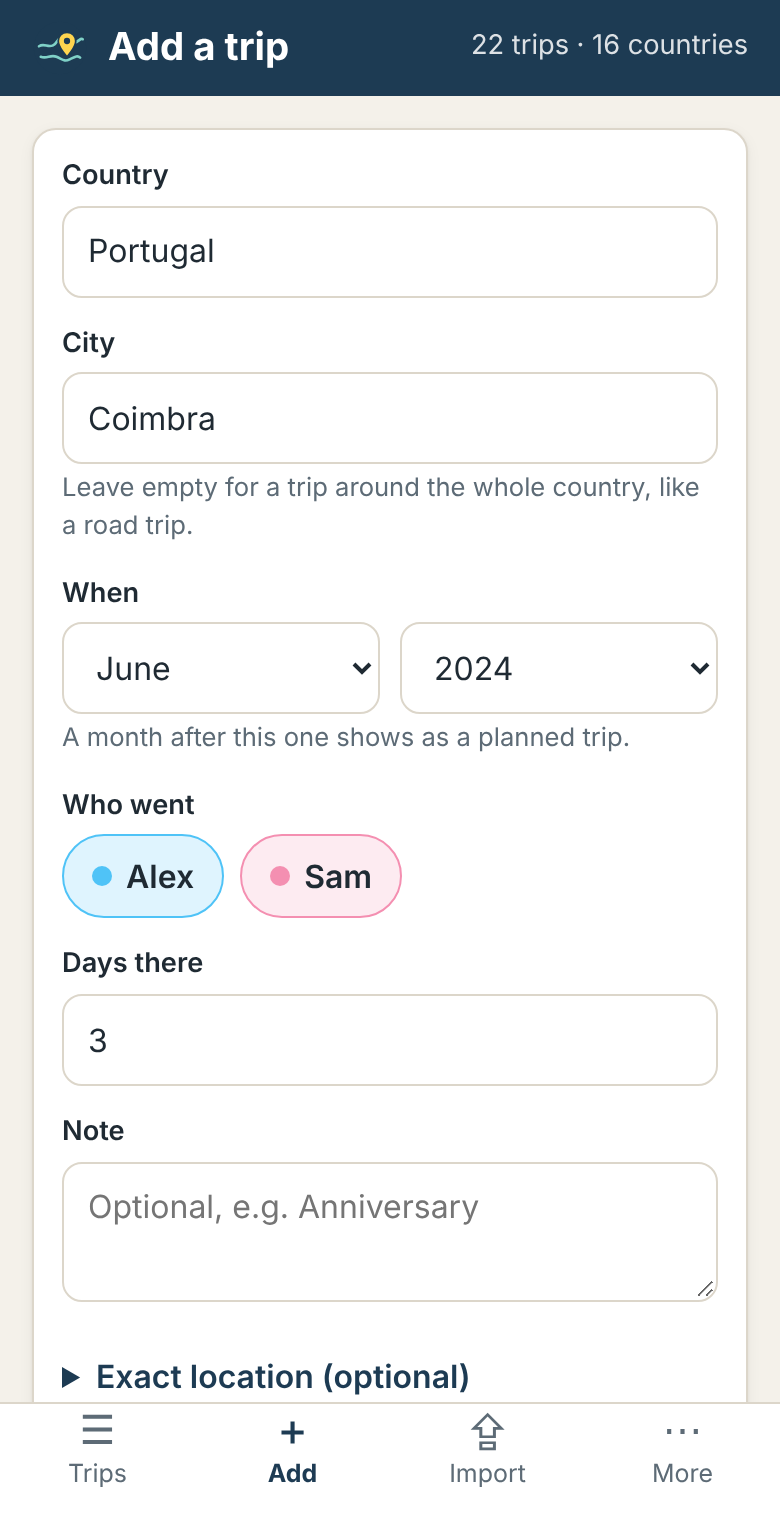
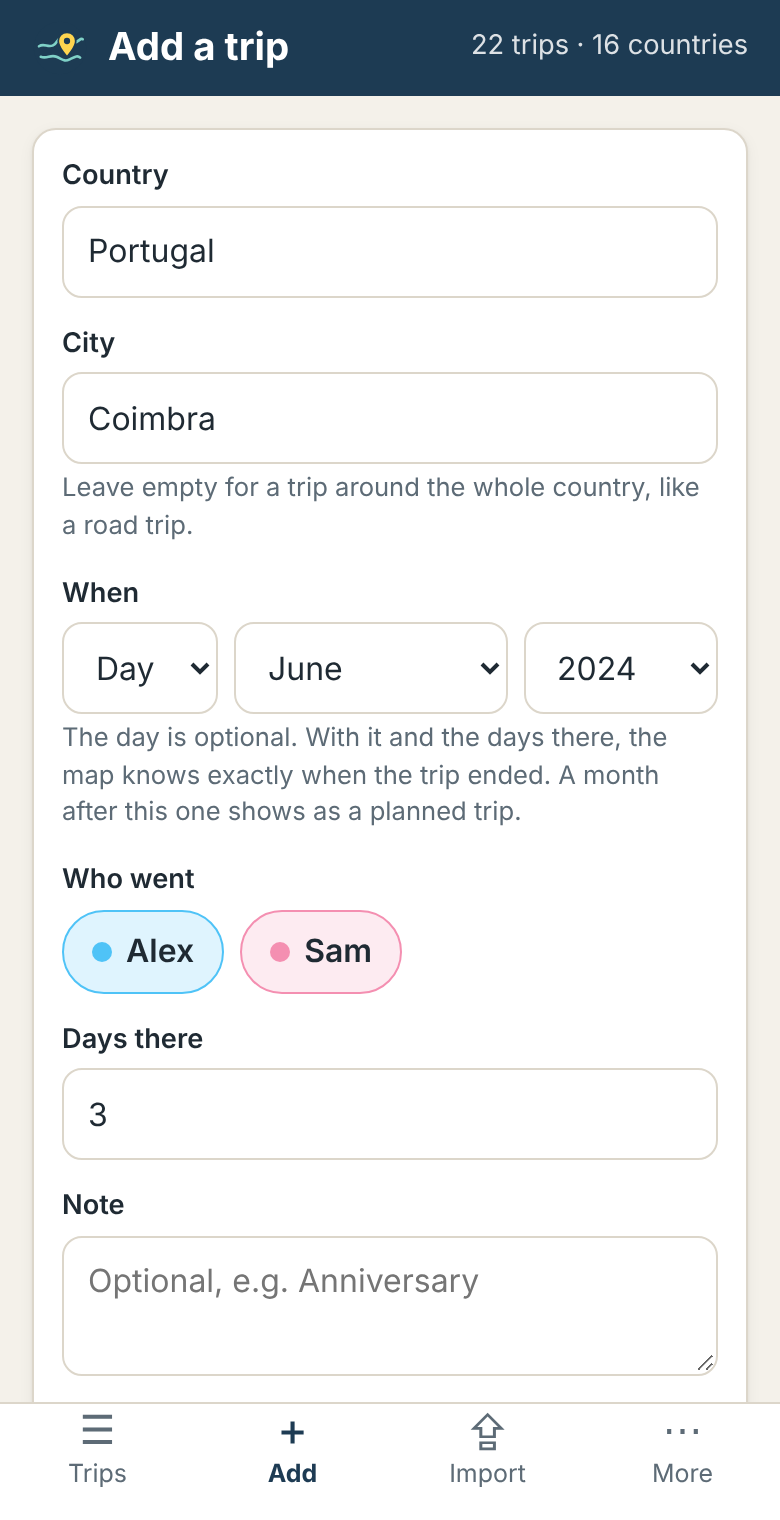
Release prep: new screenshots, a 1.0.0 summary, CLAUDE.md tidy (#20)
* Milestone 4: trip editor and imports

- Phone-friendly trip editor served by MagicMirror at /MMM-WorldMapTravelCollector/:
  list and search, add with city autocomplete, edit, delete, backups, CSV download.
- Imports with a review step: Google Maps Timeline (phone export and old Takeout
  monthly files), saved places (Takeout GeoJSON/CSV, My Maps KML/KMZ, whole Takeout
  zip) and spreadsheets with column matching.
- Google Sheet source (sheetUrl, sheetRefreshMinutes) with an offline copy.
- Optional editorPin with lockout; changes need a custom header (no cross-site writes).
- Reverse geocoding (coordinates to city), a small zip reader, fast-xml-parser for KML.
- Unreadable rows are kept and can be fixed in the editor; only hand-set coordinates
  are saved.

Claude-Session: https://claude.ai/code/session_015L1TvDDaXEPm7QN41sBCcJ

* Map: fade places by how long ago they were visited

New options fadeByAge (off by default), fadeStrength (0-0.95, default 0.6) and
fadeYears (default 10). Each country and pin is drawn at 1 - strength * age/years
of its own color, using its most recent visit in the current view. Planned trips
never fade. Works in both themes through a --wmtc-fade CSS variable.

Claude-Session: https://claude.ai/code/session_015L1TvDDaXEPm7QN41sBCcJ

* Notes: milestone 4 merged; how fade by age works

Claude-Session: https://claude.ai/code/session_015L1TvDDaXEPm7QN41sBCcJ

* Map: tap a pin or country for details; flat map shape
[…]

diff --git a/CHANGELOG.md b/CHANGELOG.md
@@ -1,6 +1,18 @@
 # Changelog
 
-## Unreleased
+## 1.0.0 (not released yet)
+
+The first release for MagicMirror's module list. In short:
+
+- **A world map of your trips.** A pin for every place, in each traveler's color or gold for trips taken together, and hollow pins for planned trips. Visited countries can be shaded too (`shadeCountries`). Four map shapes, a Digital theme for mirrors and an Analog (paper and ink) theme for TVs and frames.
+- **People, Years and Months tabs.** View all trips, trips together, each person's trips, a year or a month. The mirror takes turns through the tab on screen, and the colors follow it.
+- **A list of places and dates** under the map, and a stats line (countries, cities, continents, share of the world, trips this year, distance, plus eight more to choose from, like the next trip and days traveled).
+- **Tap a place** on a touch screen for its visits, days and who went.
+- **A phone editor** served by the mirror itself: add, change and delete trips, with city suggestions, Undo and backups. The mirror shows a QR code to open it.
+- **Imports** from Google Maps Timeline, saved places, My Maps and spreadsheets, with a review before anything is saved, or trips kept in a Google Sheet.
+- **Works offline**: the map and 135,000 cities are built in, and nothing about your trips leaves the mirror. Needs Node.js 22 or newer.
+
+What changed on the way there, newest first:
 
 ### All in every tab; a smaller QR code
 

diff --git a/CLAUDE.md b/CLAUDE.md
@@ -1,9 +1,10 @@
 # MMM-WorldMapTravelCollector: notes for Claude
 
-A MagicMirror² module: a world map of trips (countries shaded, cities pinned) with views by traveler, year or month, a ledger grid of places and dates, a stats line, Digital/Analog themes, and a phone editor served by MagicMirror. It is listed on the MagicMirror 3rd-party module list, so every choice is a config option with a sensible default.
+A MagicMirror² module: a world map of trips (a pin per place; countries can be shaded) with views by traveler, year or month, a ledger grid of places and dates, a stats line, Digital/Analog themes, and a phone editor served by MagicMirror. It is listed on the MagicMirror 3rd-party module list, so every choice is a config option with a sensible default.
 
 - The owner tests on a Raspberry Pi 4 and is not a developer: explain changes in plain words and send screenshots of visual changes.
-- Ideas for later: timeline view (Jan–Dec × years), zoom to a region, specific spots, photos, a "days traveled" stat, settings in the editor.
+- Ideas for later: timeline view (Jan–Dec × years), zoom to a region, specific spots, photos, settings in the editor.
+- README screenshots come from the preview with the sample trips (fixed date 2026-11-23, `?editor=off`, rotation off); the main image must be `screenshots/screenshot.png` for the module list.
 
 ## Decisions already made
 

diff --git a/README.md b/README.md
@@ -2,9 +2,11 @@
 
 A [MagicMirror²](https://magicmirror.builders/) module that maps everywhere you've traveled, solo or together, with a notebook-style ledger of places and dates, travel stats, and a trip editor you use from your phone.
 
-| Digital (for mirrors) | Analog (for TVs and frames) |
-| --- | --- |
-| ![Digital theme](screenshots/digital-all.png) | ![Analog theme](screenshots/analog-all.png) |
+![The map on a mirror: pins for every place, tabs for people, years and months, stats, and a list of places and dates](screenshots/screenshot.png)
+
+| Analog (for TVs and frames) | Colored by year | Tap a place for its trips |
+| --- | --- | --- |
+| ![Analog theme](screenshots/analog.jpg) | ![The Years tab](screenshots/years.png) | ![Details card for Japan](screenshots/details.png) |
 
 - Each place you've visited gets a pin, and planned trips show as hollow pins. Visited countries can be shaded too (`shadeCountries`).
 - Views for trips taken together, by each person, by year or by month, which take turns on the mirror.
